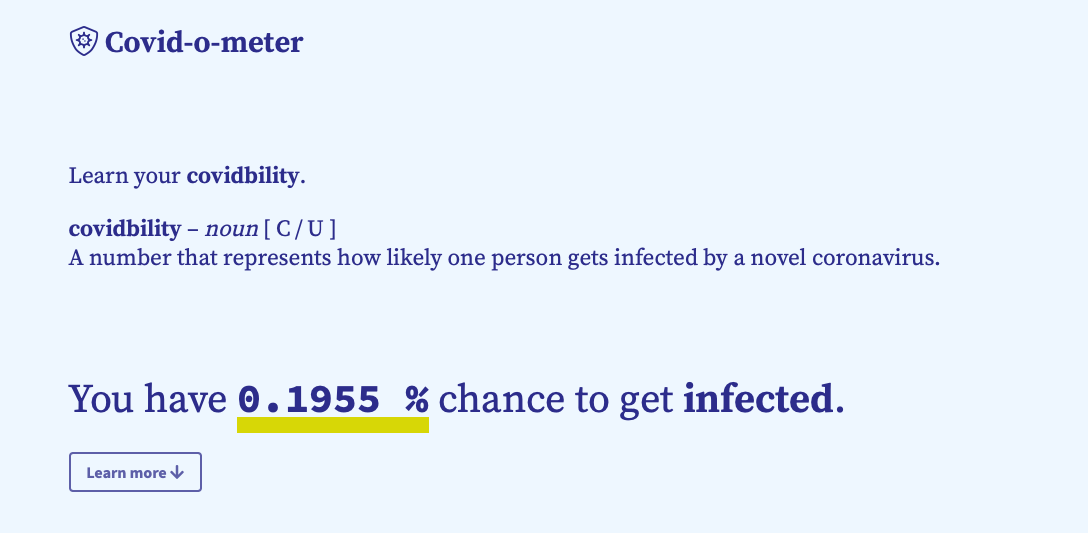
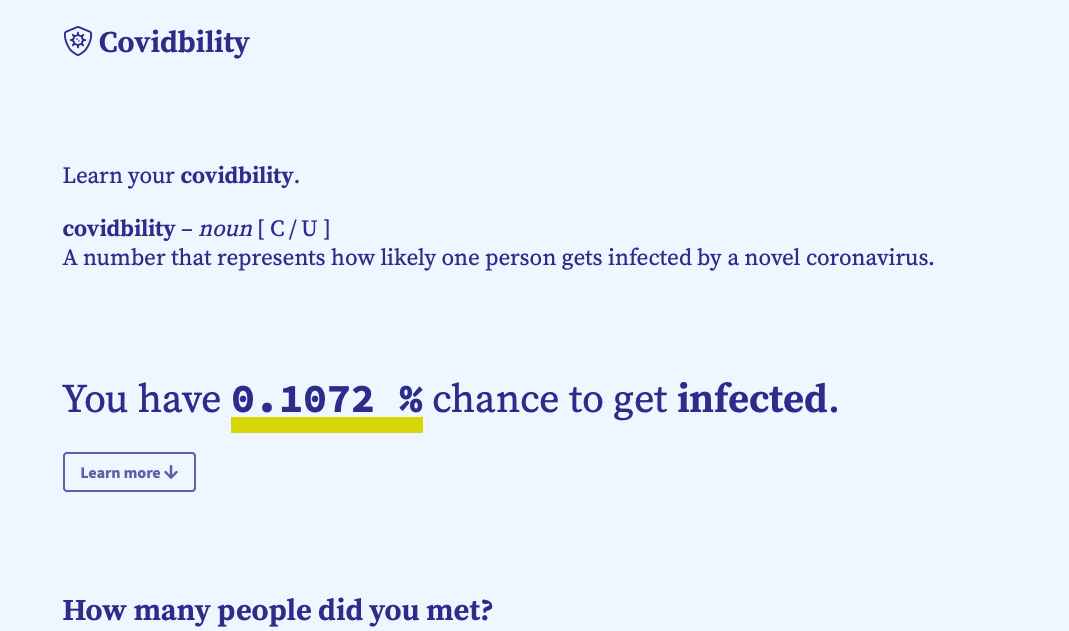
Updates

diff --git a/index.html b/index.html
@@ -4,7 +4,7 @@
 <head>
   <meta charset="utf-8">
   <meta name="viewport" content="width=device-width, initial-scale=1.0">
-  <title>Covid-o-meter - Learn your chance to get COVID-19</title>
+  <title>Covidbility - Learn your chance to get COVID-19</title>
   <meta name="description" content="An online tool that counts the probability of getting infection based on the number of people you met.">
   <link href="https://fonts.googleapis.com/css?family=Source+Code+Pro:400,700|Source+Sans+Pro:400,700|Source+Serif+Pro:400,700&display=swap" rel="stylesheet">
   <link href="style.css" rel="stylesheet">
@@ -13,9 +13,9 @@
   <script src="https://cdn.jsdelivr.net/npm/@shopify/draggable@1.0.0-beta.8/lib/draggable.bundle.js"></script>
   <script src="./dist/index.js"></script>
 
-<meta property="og:title" content="Covid-o-meter - Learn your chance to get COVID-19" />
+<meta property="og:title" content="Covidbility - Learn your chance to get COVID-19" />
 <meta property="og:description" content="An online tool that counts the probability of getting infection based on the number of people you met." />
-<meta property="og:url" content="https://bartaxyz.github.io/covid-o-meter/" />
+<meta property="og:url" content="https://bartaxyz.github.io/covidbility/" />
 <meta property="og:image" content="og-image.png" />
 
 </head>
